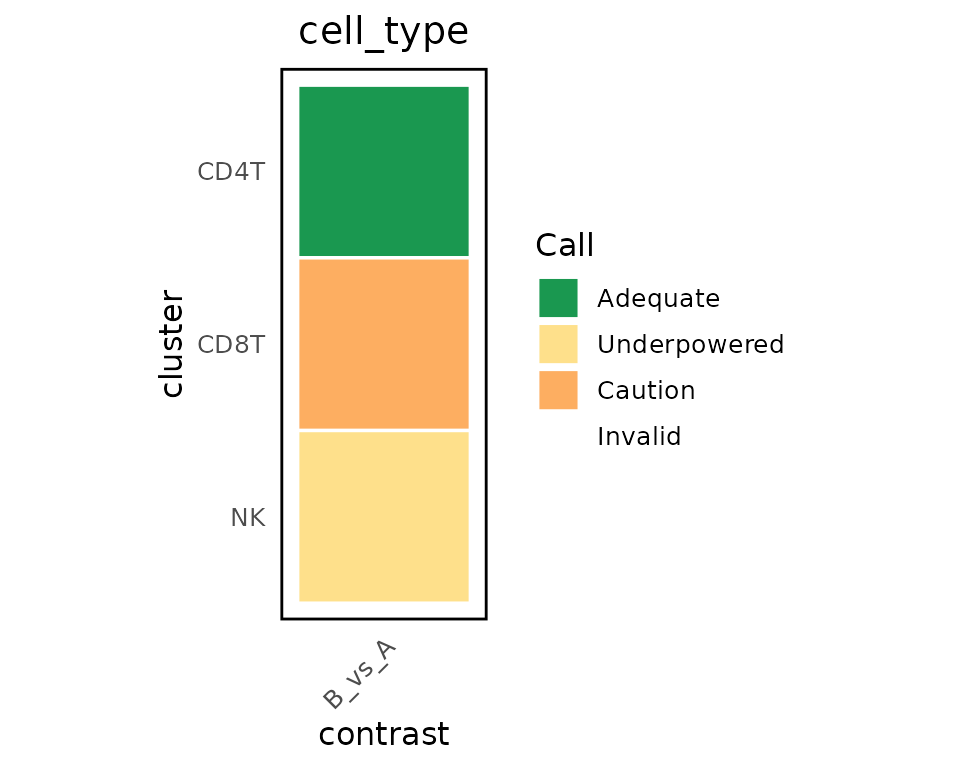
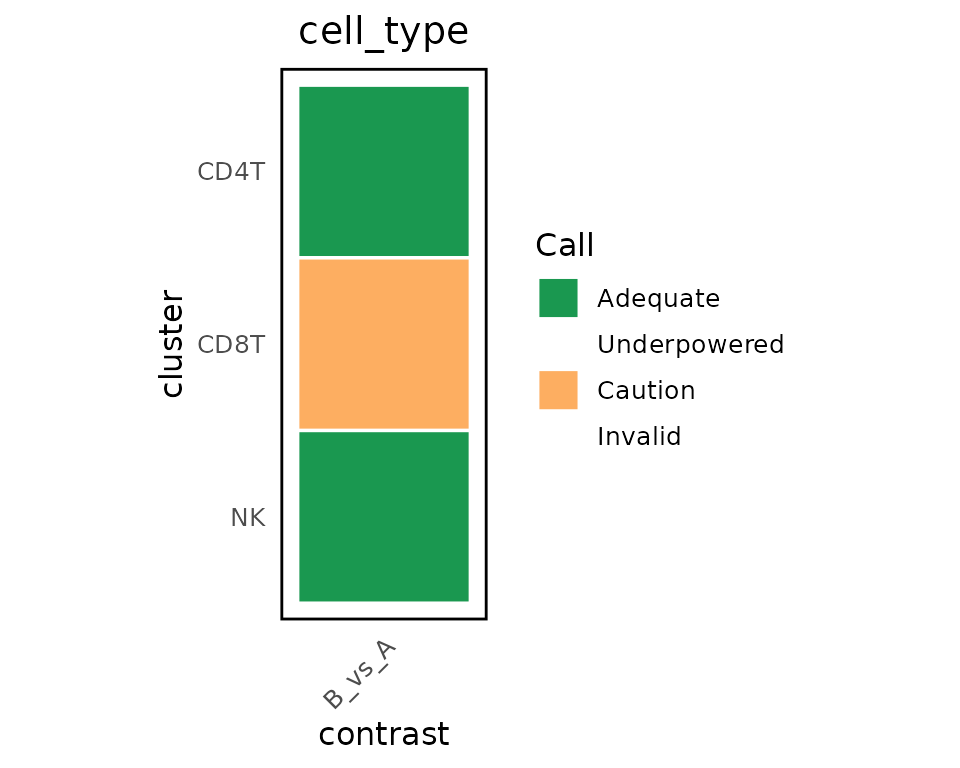
Deploying to gh-pages from @ smorabit/seny@cca5e4e9784734071e3e71e7090428f25d7c1a6e 🚀

Changed region(s): [[0.3125, 0.5625, 0.5, 0.7812], [0.5625, 0.4062, 0.625, 0.5]]

diff --git a/reference/estimateSensitivity.html b/reference/estimateSensitivity.html
@@ -4,16 +4,30 @@ analytic standard error of the two-group log2 fold-change contrast per gene
 (SE^2 = 1/sum_A w + 1/sum_B w, w = 1/(1/mu + phi), phi the dispersion with the
 condition in the design), the minimum
 detectable effect at the target power and FDR, and the power at the primary
-target effect. Summarises to the sensitivity fraction: the share of testable
-genes detectable at targetLFC. Uncalibrated in the MVP (calibrate = FALSE);
-the empirical calibration from E2/E7 is applied in a later phase."><meta property="og:description" content="From the variance fits (estimateVariance()), computes the
+target effect. Summarises to the comparison's expected recall at
+targetLFC: the mean per-gene power at the target over the testable genes,
+i.e. the share of true effects of that size the test is expected to detect if
+they are spread like the testable genes. callComparisons() calls a
+comparison Adequate when its expected recall reaches
+defaultThresholds()$sensitivity (0.5). On OneK1K with known injected effects
+it tracked the observed recall per comparison (slope 1.0), whereas the
+sensitivity fraction (the share of genes whose MDE clears the target at the
+target power, still reported) under-predicts it (E4c). Uncalibrated in the
+MVP (calibrate = FALSE)."><meta property="og:description" content="From the variance fits (estimateVariance()), computes the
 analytic standard error of the two-group log2 fold-change contrast per gene
 (SE^2 = 1/sum_A w + 1/sum_B w, w = 1/(1/mu + phi), phi the dispersion with the
 condition in the design), the minimum
 detectable effect at the target power and FDR, and the power at the primary
-target effect. Summarises to the sensitivity fraction: the share of testable
-genes detectable at targetLFC. Uncalibrated in the MVP (calibrate = FALSE);
-the empirical calibration from E2/E7 is applied in a later phase."></head><body>
+target effect. Summarises to the comparison's expected recall at
+targetLFC: the mean per-gene power at the target over the testable genes,
+i.e. the share of true effects of that size the test is expected to detect if
+they are spread like the testable genes. callComparisons() calls a
+comparison Adequate when its expected recall reaches
+defaultThresholds()$sensitivity (0.5). On OneK1K with known injected effects
+it tracked the observed recall per comparison (slope 1.0), whereas the
+sensitivity fraction (the share of genes whose MDE clears the target at the
+target power, still reported) under-predicts it (E4c). Uncalibrated in the
+MVP (calibrate = FALSE)."></head><body>
     <a href="#main" class="visually-hidden-focusable">Skip to contents</a>
 
 
@@ -54,9 +68,16 @@ analytic standard error of the two-group log2 fold-change contrast per gene
 (<code>SE^2 = 1/sum_A w + 1/sum_B w</code>, <code>w = 1/(1/mu + phi)</code>, phi the dispersion with the
 condition in the design), the minimum
 detectable effect at the target power and FDR, and the power at the primary
-target effect. Summarises to the sensitivity fraction: the share of testable
-genes detectable at <code>targetLFC</code>. Uncalibrated in the MVP (<code>calibrate = FALSE</code>);
-the empirical calibration from E2/E7 is applied in a later phase.</p>
+target effect. Summarises to the comparison's <strong>expected recall</strong> at
+<code>targetLFC</code>: the mean per-gene power at the target over the testable genes,
+i.e. the share of true effects of that size the test is expected to detect if
+they are spread like the testable genes. <code><a href="callComparisons.html">callComparisons()</a></code> calls a
+comparison Adequate when its expected recall reaches
+<code>defaultThresholds()$sensitivity</code> (0.5). On OneK1K with known injected effects
+it tracked the observed recall per comparison (slope 1.0), whereas the
+sensitivity fraction (the share of genes whose MDE clears the target at the
+target power, still reported) under-predicts it (E4c). Uncalibrated in the
+MVP (<code>calibrate = FALSE</code>).</p>
     </div>
 
     <div class="section level2">
@@ -114,7 +135,8 @@ of the two (the larger MDE).</p></dd>
     <div class="section level2">
     <h2 id="value">Value<a class="anchor" aria-label="anchor" href="#value"></a></h2>
     <p>A <code>data.frame</code>, one row per comparison, with <code>target_lfc</code>, the <code>pi1</code>
-and per-gene <code>alpha</code> used, <code>sensitivity_fraction</code>, <code>median_mde</code>,
+and per-gene <code>alpha</code> used, <code>expected_recall</code> (the summary behind the call),
+<code>sensitivity_fraction</code>, <code>median_mde</code>,
 <code>median_mde_fdr</code>, <code>median_mde_fixed</code> (<code>NA</code> without <code>alphaFixed</code>) and
 <code>median_power</code>.</p>
     </div>

diff --git a/articles/seny.html b/articles/seny.html
@@ -137,24 +137,26 @@ comparison.</p>
 <p>The comparison table carries the layer-2 cell-quality metrics
 alongside the call. <code>cells_cond_cor</code> is the correlation of
 log cells-per-sample with the condition; <code>cells_ratio</code> is the
-smaller group median over the larger; <code>sensitivity_fraction</code>
-is the share of testable genes detectable at the target effect.</p>
+smaller group median over the larger; <code>expected_recall</code> is
+the share of true effects of the target size the test is expected to
+detect (mean per-gene power at the target), and drives the Adequate /
+Underpowered call.</p>
 <div class="sourceCode" id="cb3"><pre class="downlit sourceCode r">
 <code class="sourceCode R"><span><span class="va">cols</span> <span class="op">&lt;-</span> <span class="fu"><a href="https://rdrr.io/r/base/c.html" class="external-link">c</a></span><span class="op">(</span><span class="st">"cluster"</span>, <span class="st">"nA"</span>, <span class="st">"nB"</span>, <span class="st">"median_cells"</span>, <span class="st">"gini_cells"</span>, <span class="st">"cells_ratio"</span>,</span>
-<span>          <span class="st">"cells_cond_cor"</span>, <span class="st">"n_testable"</span>, <span class="st">"sensitivity_fraction"</span>, <span class="st">"call"</span><span class="op">)</span></span>
+<span>          <span class="st">"cells_cond_cor"</span>, <span class="st">"n_testable"</span>, <span class="st">"expected_recall"</span>, <span class="st">"call"</span><span class="op">)</span></span>
 <span><span class="fu">knitr</span><span class="fu">::</span><span class="fu"><a href="https://rdrr.io/pkg/knitr/man/kable.html" class="external-link">kable</a></span><span class="op">(</span><span class="fu"><a href="https://rdrr.io/r/base/as.data.frame.html" class="external-link">as.data.frame</a></span><span class="op">(</span><span class="va">res</span><span class="op">)</span><span class="op">[</span>, <span class="va">cols</span><span class="op">]</span>, digits <span class="op">=</span> <span class="fl">2</span>, row.names <span class="op">=</span> <span class="cn">FALSE</span><span class="op">)</span></span></code></pre></div>
-<table style="width:100%;" class="table">
+<table class="table">
 <colgroup>
 <col width="7%">
 <col width="2%">
 <col width="2%">
+<col width="12%">
+<col width="10%">
 <col width="11%">
+<col width="14%">
 <col width="10%">
-<col width="10%">
-<col width="13%">
-<col width="10%">
-<col width="19%">
-<col width="11%">
+<col width="15%">
+<col width="8%">
 </colgroup>
 <thead><tr class="header">
 <th align="left">cluster</th>
@@ -165,7 +167,7 @@ is the share of testable genes detectable at the target effect.</p>
 <th align="right">cells_ratio</th>
 <th align="right">cells_cond_cor</th>
 <th align="right">n_testable</th>
-<th align="right">sensitivity_fraction</th>
+<th align="right">expected_recall</th>
 <th align="left">call</th>
 </tr></thead>
 <tbody>
@@ -178,7 +180,7 @@ is the share of testable genes detectable at the target effect.</p>
 <td align="right">1.00</td>
 <td align="right">NA</td>
 <td align="right">400</td>
-<td align="right">1</td>
+<td align="right">1.00</td>
 <td align="left">Adequate</td>
 </tr>
 <tr class="even">
@@ -190,7 +192,7 @@ is the share of testable genes detectable at the target effect.</p>
 <td align="right">0.21</td>
 <td align="right">-1</td>
 <td align="right">400</td>
-<td align="right">1</td>
+<td align="right">1.00</td>
 <td align="left">Caution</td>
 </tr>
 <tr class="odd">
@@ -202,8 +204,8 @@ is the share of testable genes detectable at the target effect.</p>
 <td align="right">1.00</td>
 <td align="right">NA</td>
 <td align="right">400</td>
-<td align="right">0</td>
-<td align="left">Underpowered</td>
+<td align="right">0.78</td>
+<td align="left">Adequate</td>
 </tr>
 </tbody>
 </table>
@@ -215,7 +217,7 @@ is the share of testable genes detectable at the target effect.</p>
 <span><span class="op">}</span></span>
 <span><span class="co">#&gt; CD4T -&gt; Adequate :: adequate </span></span>
 <span><span class="co">#&gt; CD8T -&gt; Caution :: cell-count imbalance correlated with condition (r -1.00, cutoff 0.50 at 24 samples; consider sample weights) </span></span>
-<span><span class="co">#&gt; NK -&gt; Underpowered :: underpowered (0% of genes detectable at log2FC 1)</span></span></code></pre></div>
+<span><span class="co">#&gt; NK -&gt; Adequate :: adequate</span></span></code></pre></div>
 <p>Here CD4 T is clean (<strong>Adequate</strong>); CD8 T has far fewer
 cells in condition B, so its cell-count imbalance tracks the condition
 and breaks the equal-variance assumption (<strong>Caution</strong> —

diff --git a/reference/callComparisons.html b/reference/callComparisons.html
@@ -3,15 +3,15 @@
 assigns each comparison a call: Invalid (the contrast is not estimable, or
 too few samples per group), Caution (estimable but the condition is
 confounded with a covariate, or cell-count imbalance tracks the condition),
-Underpowered (valid but the sensitivity fraction is below target, or too
-few testable genes), or Adequate. Severity order is
+Underpowered (valid but the expected recall at the target effect is below
+thresholds$sensitivity, or too few testable genes), or Adequate. Severity order is
 Invalid &amp;gt; Caution &amp;gt; Underpowered &amp;gt; Adequate; the reason column lists every
 flag so the single call never hides a second problem."><meta property="og:description" content="Merges the layer metrics into one tidy table, one row per comparison, and
 assigns each comparison a call: Invalid (the contrast is not estimable, or
 too few samples per group), Caution (estimable but the condition is
 confounded with a covariate, or cell-count imbalance tracks the condition),
-Underpowered (valid but the sensitivity fraction is below target, or too
-few testable genes), or Adequate. Severity order is
+Underpowered (valid but the expected recall at the target effect is below
+thresholds$sensitivity, or too few testable genes), or Adequate. Severity order is
 Invalid &amp;gt; Caution &amp;gt; Underpowered &amp;gt; Adequate; the reason column lists every
 flag so the single call never hides a second problem."></head><body>
     <a href="#main" class="visually-hidden-focusable">Skip to contents</a>
@@ -53,8 +53,8 @@ flag so the single call never hides a second problem."></head><body>
 assigns each comparison a call: <strong>Invalid</strong> (the contrast is not estimable, or
 too few samples per group), <strong>Caution</strong> (estimable but the condition is
 confounded with a covariate, or cell-count imbalance tracks the condition),
-<strong>Underpowered</strong> (valid but the sensitivity fraction is below target, or too
-few testable genes), or <strong>Adequate</strong>. Severity order is
+<strong>Underpowered</strong> (valid but the expected recall at the target effect is below
+<code>thresholds$sensitivity</code>, or too few testable genes), or <strong>Adequate</strong>. Severity order is
 Invalid &gt; Caution &gt; Underpowered &gt; Adequate; the <code>reason</code> column lists every
 flag so the single call never hides a second problem.</p>
     </div>

diff --git a/reference/defaultThresholds.html b/reference/defaultThresholds.html
@@ -53,8 +53,9 @@ placeholders, documented so a user can override them.</p>
     <h2 id="value">Value<a class="anchor" aria-label="anchor" href="#value"></a></h2>
     <p>A named list: <code>cramerV</code> (condition-covariate association above which a
 comparison is flagged Caution), <code>vif</code> (variance inflation factor threshold),
-<code>sensitivity</code> (sensitivity fraction at or above which a comparison is
-adequately powered), <code>minSamples</code> (fewer samples per group is Invalid),
+<code>sensitivity</code> (expected recall at the target effect at or above which a
+comparison is adequately powered; 0.5 matches replication failure defined as
+recall below 0.5), <code>minSamples</code> (fewer samples per group is Invalid),
 <code>cellsCondCor</code> (absolute correlation of log cells per sample with condition
 above which cell-count imbalance is flagged Caution), <code>cellsCondAlpha</code>
 (the correlation must also exceed the critical value at this level for the

diff --git a/articles/seny.md b/articles/seny.md
@@ -56,21 +56,22 @@ res <- assessAll(sce, sample = "donor", group = "condition",
 The comparison table carries the layer-2 cell-quality metrics alongside
 the call. `cells_cond_cor` is the correlation of log cells-per-sample
 with the condition; `cells_ratio` is the smaller group median over the
-larger; `sensitivity_fraction` is the share of testable genes detectable
-at the target effect.
+larger; `expected_recall` is the share of true effects of the target
+size the test is expected to detect (mean per-gene power at the target),
+and drives the Adequate / Underpowered call.
 
 ``` r
 
 cols <- c("cluster", "nA", "nB", "median_cells", "gini_cells", "cells_ratio",
-          "cells_cond_cor", "n_testable", "sensitivity_fraction", "call")
+          "cells_cond_cor", "n_testable", "expected_recall", "call")
 knitr::kable(as.data.frame(res)[, cols], digits = 2, row.names = FALSE)
 ```
 
-| cluster | nA | nB | median_cells | gini_cells | cells_ratio | cells_cond_cor | n_testable | sensitivity_fraction | call |
+| cluster | nA | nB | median_cells | gini_cells | cells_ratio | cells_cond_cor | n_testable | expected_recall | call |
 |:---|---:|---:|---:|---:|---:|---:|---:|---:|:---|
-| CD4T | 12 | 12 | 90.0 | 0.00 | 1.00 | NA | 400 | 1 | Adequate |
-| CD8T | 12 | 12 | 42.5 | 0.32 | 0.21 | -1 | 400 | 1 | Caution |
-| NK | 12 | 12 | 25.0 | 0.00 | 1.00 | NA | 400 | 0 | Underpowered |
+| CD4T | 12 | 12 | 90.0 | 0.00 | 1.00 | NA | 400 | 1.00 | Adequate |
+| CD8T | 12 | 12 | 42.5 | 0.32 | 0.21 | -1 | 400 | 1.00 | Caution |
+| NK | 12 | 12 | 25.0 | 0.00 | 1.00 | NA | 400 | 0.78 | Adequate |
 
 Each non-adequate call explains itself:
 
@@ -82,7 +83,7 @@ for (i in seq_len(nrow(d))) {
 }
 #> CD4T -> Adequate :: adequate 
 #> CD8T -> Caution :: cell-count imbalance correlated with condition (r -1.00, cutoff 0.50 at 24 samples; consider sample weights) 
-#> NK -> Underpowered :: underpowered (0% of genes detectable at log2FC 1)
+#> NK -> Adequate :: adequate
 ```
 
 Here CD4 T is clean (**Adequate**); CD8 T has far fewer cells in

diff --git a/reference/estimateSensitivity.md b/reference/estimateSensitivity.md
@@ -6,10 +6,17 @@ computes the analytic standard error of the two-group log2 fold-change
 contrast per gene (`SE^2 = 1/sum_A w + 1/sum_B w`, `w = 1/(1/mu + phi)`,
 phi the dispersion with the condition in the design), the minimum
 detectable effect at the target power and FDR, and the power at the
-primary target effect. Summarises to the sensitivity fraction: the share
-of testable genes detectable at `targetLFC`. Uncalibrated in the MVP
-(`calibrate = FALSE`); the empirical calibration from E2/E7 is applied
-in a later phase.
+primary target effect. Summarises to the comparison's **expected
+recall** at `targetLFC`: the mean per-gene power at the target over the
+testable genes, i.e. the share of true effects of that size the test is
+expected to detect if they are spread like the testable genes.
+[`callComparisons()`](https://smorabit.github.io/seny/reference/callComparisons.md)
+calls a comparison Adequate when its expected recall reaches
+`defaultThresholds()$sensitivity` (0.5). On OneK1K with known injected
+effects it tracked the observed recall per comparison (slope 1.0),
+whereas the sensitivity fraction (the share of genes whose MDE clears
+the target at the target power, still reported) under-predicts it (E4c).
+Uncalibrated in the MVP (`calibrate = FALSE`).
 
 ## Usage
 
@@ -65,9 +72,9 @@ estimateSensitivity(
 ## Value
 
 A `data.frame`, one row per comparison, with `target_lfc`, the `pi1` and
-per-gene `alpha` used, `sensitivity_fraction`, `median_mde`,
-`median_mde_fdr`, `median_mde_fixed` (`NA` without `alphaFixed`) and
-`median_power`.
+per-gene `alpha` used, `expected_recall` (the summary behind the call),
+`sensitivity_fraction`, `median_mde`, `median_mde_fdr`,
+`median_mde_fixed` (`NA` without `alphaFixed`) and `median_power`.
 
 ## Details
 

diff --git a/reference/callComparisons.md b/reference/callComparisons.md
@@ -4,10 +4,11 @@ Merges the layer metrics into one tidy table, one row per comparison,
 and assigns each comparison a call: **Invalid** (the contrast is not
 estimable, or too few samples per group), **Caution** (estimable but the
 condition is confounded with a covariate, or cell-count imbalance tracks
-the condition), **Underpowered** (valid but the sensitivity fraction is
-below target, or too few testable genes), or **Adequate**. Severity
-order is Invalid \> Caution \> Underpowered \> Adequate; the `reason`
-column lists every flag so the single call never hides a second problem.
+the condition), **Underpowered** (valid but the expected recall at the
+target effect is below `thresholds$sensitivity`, or too few testable
+genes), or **Adequate**. Severity order is Invalid \> Caution \>
+Underpowered \> Adequate; the `reason` column lists every flag so the
+single call never hides a second problem.
 
 ## Usage
 

diff --git a/reference/defaultThresholds.md b/reference/defaultThresholds.md
@@ -16,9 +16,10 @@ defaultThresholds()
 
 A named list: `cramerV` (condition-covariate association above which a
 comparison is flagged Caution), `vif` (variance inflation factor
-threshold), `sensitivity` (sensitivity fraction at or above which a
-comparison is adequately powered), `minSamples` (fewer samples per group
-is Invalid), `cellsCondCor` (absolute correlation of log cells per
+threshold), `sensitivity` (expected recall at the target effect at or
+above which a comparison is adequately powered; 0.5 matches replication
+failure defined as recall below 0.5), `minSamples` (fewer samples per
+group is Invalid), `cellsCondCor` (absolute correlation of log cells per
 sample with condition above which cell-count imbalance is flagged
 Caution), `cellsCondAlpha` (the correlation must also exceed the
 critical value at this level for the comparison's sample size, so chance
